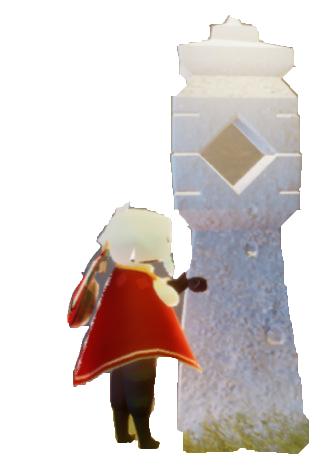
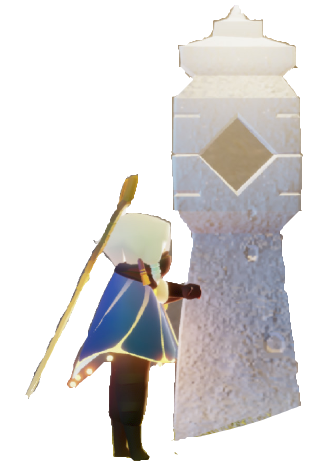
New smallest screenshot. Congrats, Aladdin! ... I guess :)

diff --git a/index.html b/index.html
@@ -5,7 +5,7 @@
     <link rel="shortcut icon" href="image/favicon.png" type="image/png" />
 
     <link rel="stylesheet" href="https://code.jquery.com/ui/1.12.1/themes/base/jquery-ui.css">
-    <link rel="stylesheet" href="css/sky.css?v=21">
+    <link rel="stylesheet" href="css/sky.css?v=22">
 
     <script src="http://code.jquery.com/jquery.min.js"></script>
     <script src="https://code.jquery.com/ui/1.12.1/jquery-ui.min.js"></script>
@@ -87,7 +87,7 @@
             <img alt="Official FAQ Chart" src="image/official.png?v=1"/>
         </div>
         <div id="smallestScreenshot" style="display:none">
-            <img alt="Smallest Screenshot" src="image/smallest.png?v=1"/>
+            <img alt="Smallest Screenshot" src="image/smallest.png?v=2"/>
         </div>
         <div id="shrinkScreenshot" style="display:none">
             <img alt="Shrink Screenshot" src="image/shrink.png?v=2"/>

diff --git a/css/sky.css b/css/sky.css
@@ -197,15 +197,15 @@ a.discordLink {
 div#smallestScreenshot {
     position: absolute;
     left: 50%;
-    margin-left: -312px;
-    top: 199px;
+    margin-left: -310px;
+    top: 202px;
     z-index: 5;
     pointer-events: none;
 }
 
 div#smallestScreenshot img {
     opacity: 80%;
-    width: 134%;
+    width: 132%;
 }
 
 div#tallestScreenshot {
